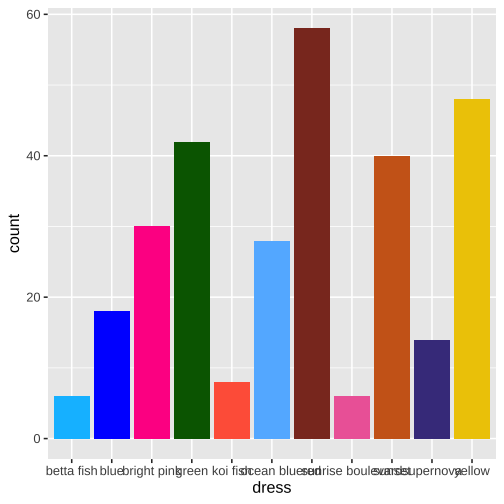
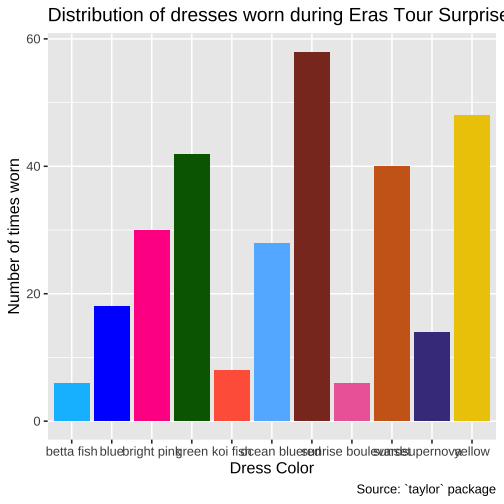
update slides

diff --git a/static/slides/24-eda/index.html b/static/slides/24-eda/index.html
@@ -115,6 +115,10 @@ labs(
 Add labels to this plot:
 
 
+.panelset[
+  .panel[.panel-name[Code]
+
+
 ``` r
 library(taylor)
 data(eras_tour_surprise) 
@@ -122,12 +126,13 @@ ggplot(eras_tour_surprise, aes(x = dress)) +
   geom_bar(stat = "count", fill = c("deepskyblue", "blue", "deeppink", "darkgreen", "tomato1", 
                                       "steelblue1", "tomato4", "hotpink2", "chocolate3", "slateblue4", "gold2" ))
 ```
+]
 
-![](index_files/figure-html/unnamed-chunk-3-1.png)&lt;!-- --&gt;
-## Example: `taylor` package: 
-Add labels to this plot:
+  .panel[.panel-name[Plot]
+![](index_files/figure-html/taylor-1-1.png) 
+]
+]
 
-![](index_files/figure-html/unnamed-chunk-4-1.png)&lt;!-- --&gt;
 
 ---
 
@@ -151,6 +156,64 @@ Sometimes you want to add additional elements to your plots!
 
 ---
 ## Annotatations
+
+
+.panelset[
+  .panel[.panel-name[Code]
+
+
+``` r
+trend_text &lt;- "Larger engine sizes tend to have lower fuel economy." |&gt;
+  str_wrap(width = 30)
+ggplot(mpg, aes(x = displ, y = hwy)) +
+  geom_point() +
+  annotate(
+    geom = "label", x = 3.5, y = 38,
+    label = trend_text,
+    hjust = "left", color = "red"
+  ) +
+  annotate(
+    geom = "segment",
+    x = 3, y = 35, xend = 5, yend = 25, color = "red",
+    arrow = arrow(type = "closed")
+  )
+```
+]
+
+  .panel[.panel-name[Plot]
+![](index_files/figure-html/trend-line-1.png) 
+]
+]
+
+
+---
+
+## Annotations example:
+
+.panelset[
+  .panel[.panel-name[Code]
+
+
+``` r
+library(taylor)
+data(taylor_albums)
+
+taylor_albums %&gt;% 
+  mutate(album_name = factor(album_name, c(album_levels, "Other"),
+                             labels = c(gsub("POETS DEPARTMENT",
+                                             "POETS\nDEPARTMENT",
+                                             album_levels), "Other"))) %&gt;%
+  ggplot(aes(x = album_name, y = metacritic_score, fill = album_name)) +
+  geom_bar(stat = "identity", color = "black") + geom_text(aes(label = metacritic_score), vjust = -0.5, color = "gray15") + theme(axis.text.x = element_text(angle = 45, vjust = 1, hjust=1))  + 
+  scale_fill_albums() + theme(legend.position = "none")
+```
+]
+
+  .panel[.panel-name[Plot]
+![](index_files/figure-html/taylor-ex-1.png) 
+]
+]
+
 
 
 ---
